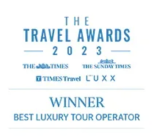
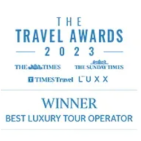
feat: minor fix

diff --git a/src/components/Landing/Awards/Awards.module.scss b/src/components/Landing/Awards/Awards.module.scss
@@ -11,7 +11,7 @@
     align-items: center;
 
     img {
-      width: 120px;
+      width: 140px;
       @include tablet {
         width: 80px;
       }
